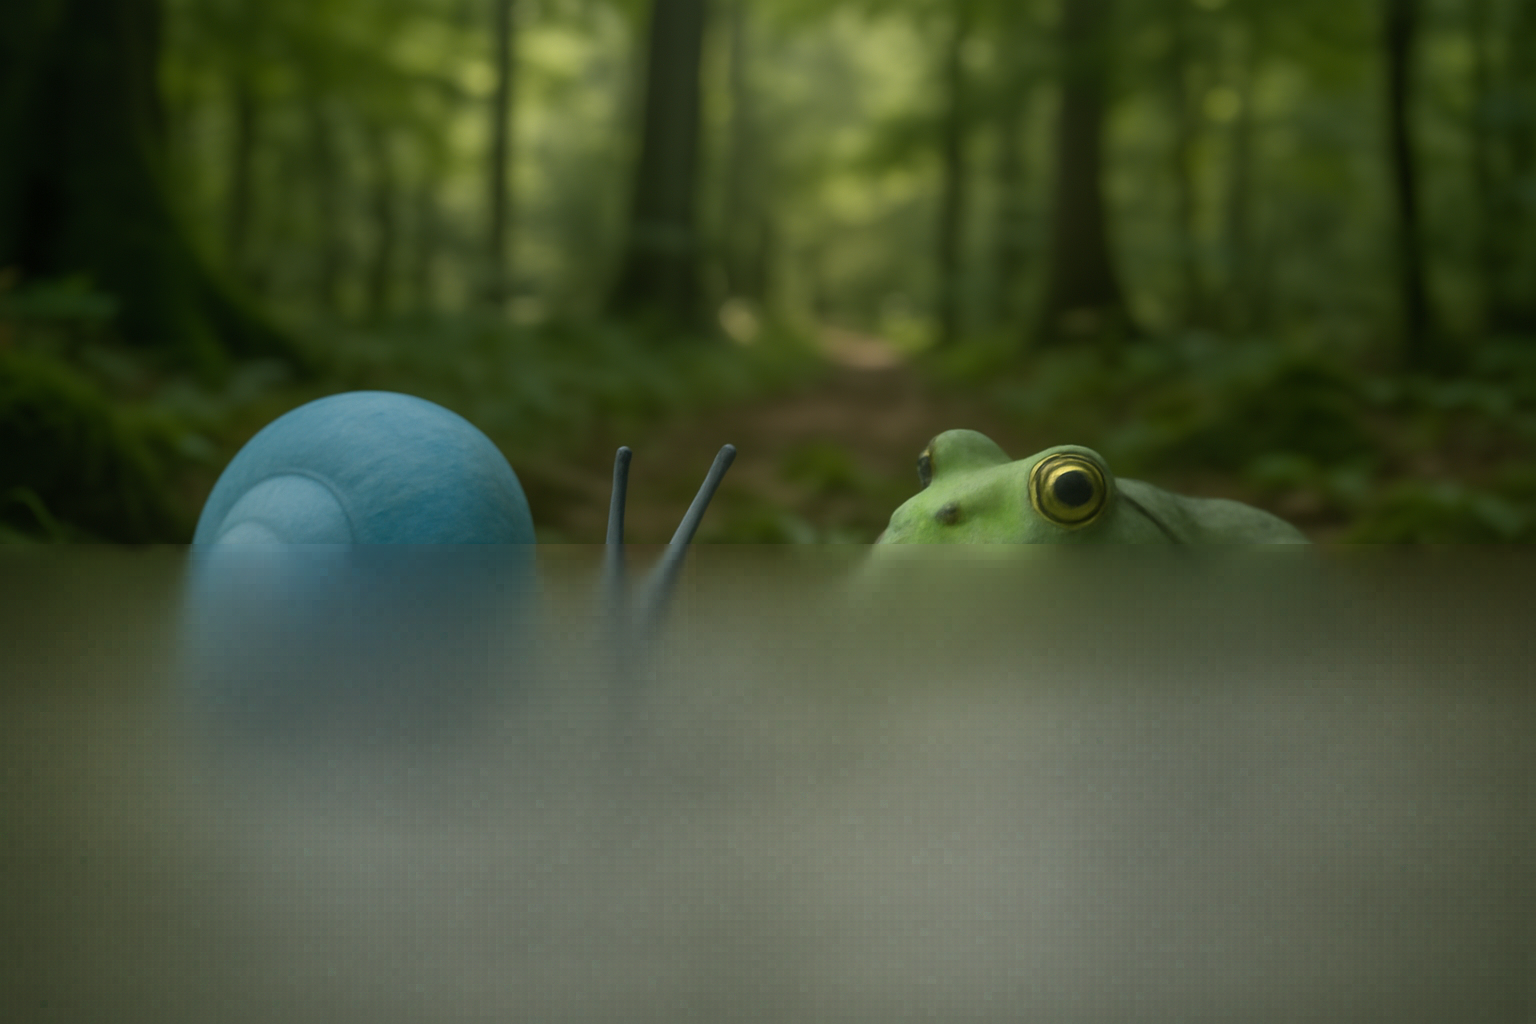
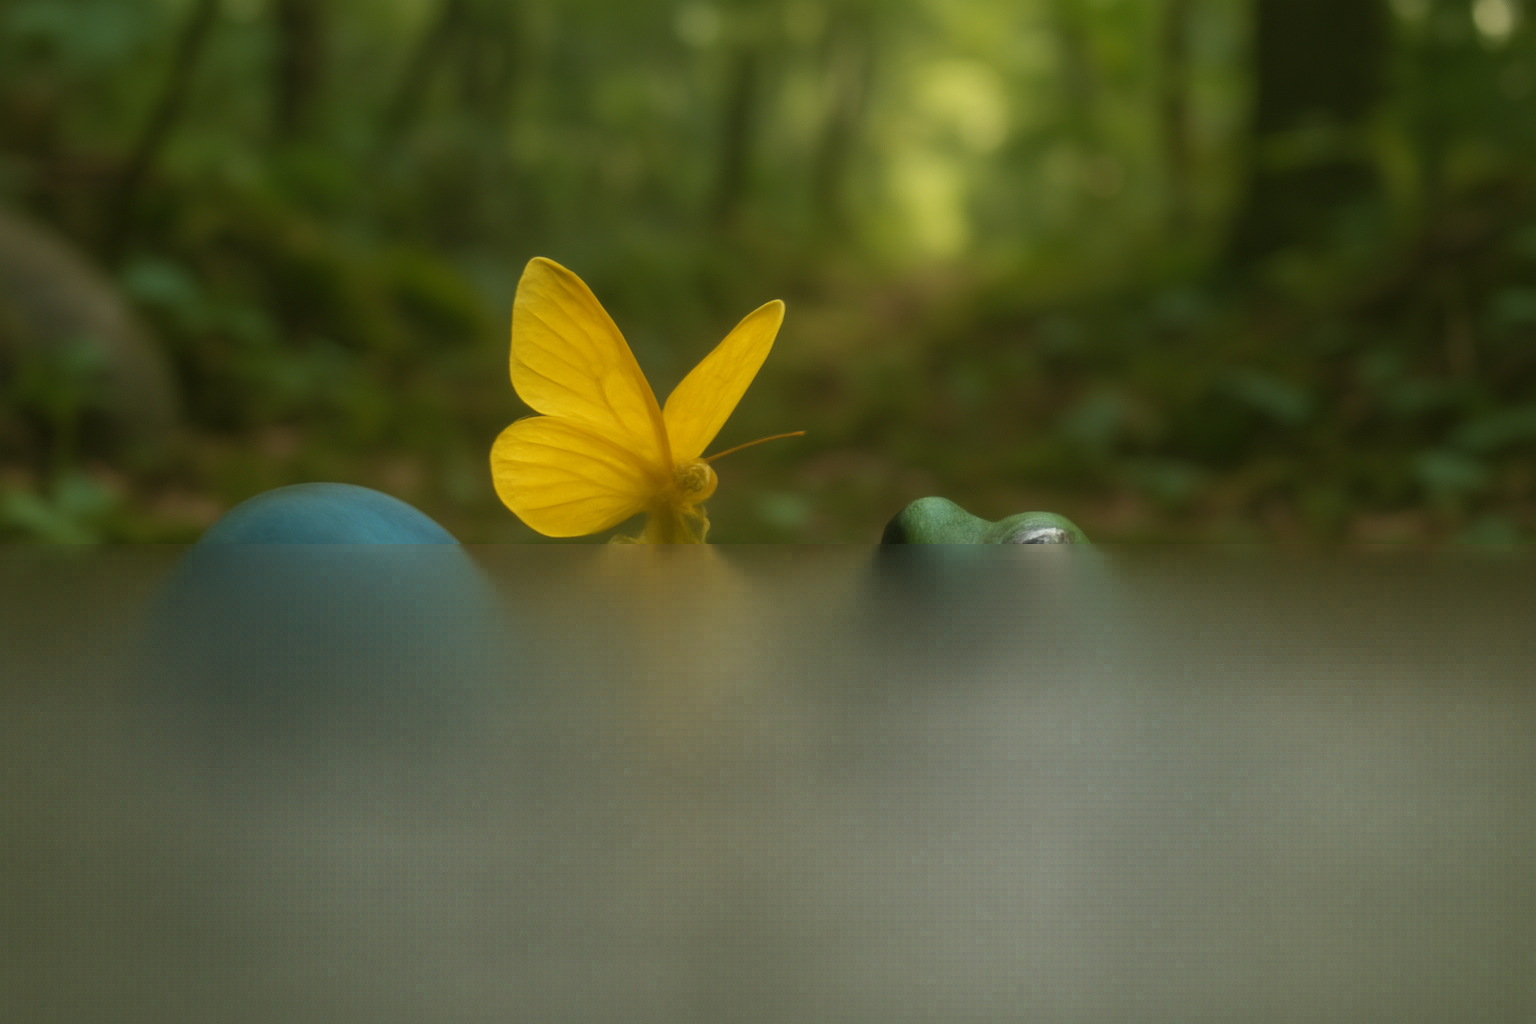
Update image generation prompts to reflect changes from 'escayola' to 'cristal' and modify console messages accordingly; update example output images.

diff --git a/images/generation/responses-api/app.py b/images/generation/responses-api/app.py
@@ -29,13 +29,13 @@ client = OpenAI(
 start_time = time.time()
 
 prompt = """
-Genera una imagen hiperrealista y detallada de un caracol de escayola azul y una rana de escayola verde, que se note claramente que son de escayola, ambos situados juntos sobre un lecho de hojas y musgo en un entorno natural iluminado suavemente. 
-Asegúrate de que el caracol y la rana sean claramente visibles, con texturas realistas de escayola, y que el fondo muestre vegetación y elementos naturales como piedras o ramas. 
+Genera una imagen hiperrealista y detallada de un caracol de cristal azul y una rana de cristal verde, que se note claramente que son de cristal, ambos situados juntos sobre un lecho de hojas y musgo en un entorno natural iluminado suavemente. 
+Asegúrate de que el caracol y la rana sean claramente visibles, con texturas realistas de cristal, y que el fondo muestre vegetación y elementos naturales como piedras o ramas. 
 La composición debe transmitir tranquilidad y resaltar los colores azul y verde de los animales.
 """
 
 console.print(Panel.fit(
-    "⏳🖼 [bold cyan]Generando la primera imagen (caracol y rana de escayola)...[/bold cyan]\nEsto puede tardar unos segundos.", border_style="cyan"))
+    "⏳🖼 [bold cyan]Generando la primera imagen (caracol y rana de cristal)...[/bold cyan]\nEsto puede tardar unos segundos.", border_style="cyan"))
 
 # Genera la primera imagen
 with Progress(SpinnerColumn(), TextColumn("[progress.description]{task.description}"), transient=True) as progress:
@@ -83,7 +83,7 @@ with Progress(SpinnerColumn(), TextColumn("[progress.description]{task.descripti
         previous_response_id=response.id,
         model=os.getenv("IMAGE_GENERATION_MODEL"),
         input=(
-            "Añade una mariposa de color amarillo, con alas abiertas también de escayola, se tiene que notar claramente, "
+            "Añade una mariposa de color amarillo, con alas abiertas también de cristal, se tiene que notar claramente, "
             "posada suavemente sobre una hoja cerca del caracol y la rana. "
             "Asegúrate de que la mariposa destaque en la composición, manteniendo la iluminación suave y el entorno natural, "
             "y que todos los elementos conserven un aspecto hiperrealista y armonioso."
